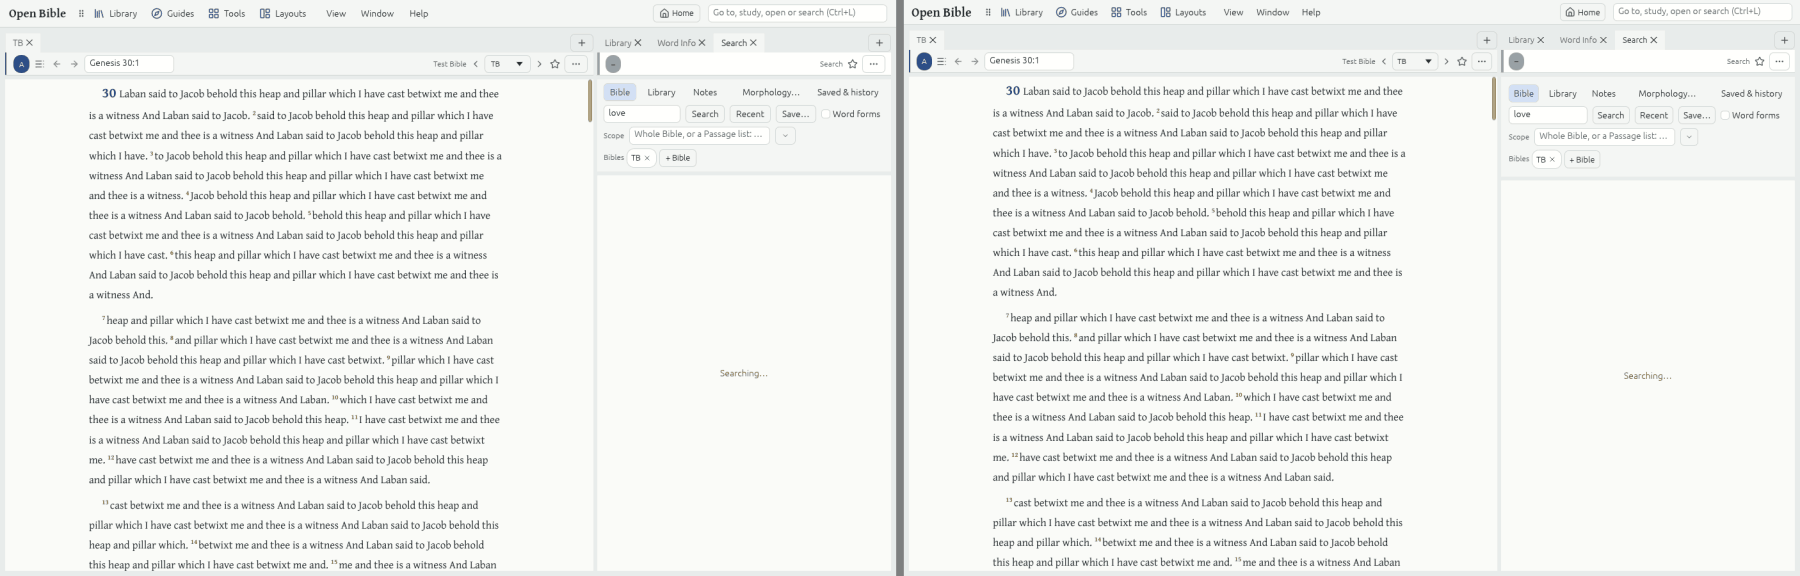
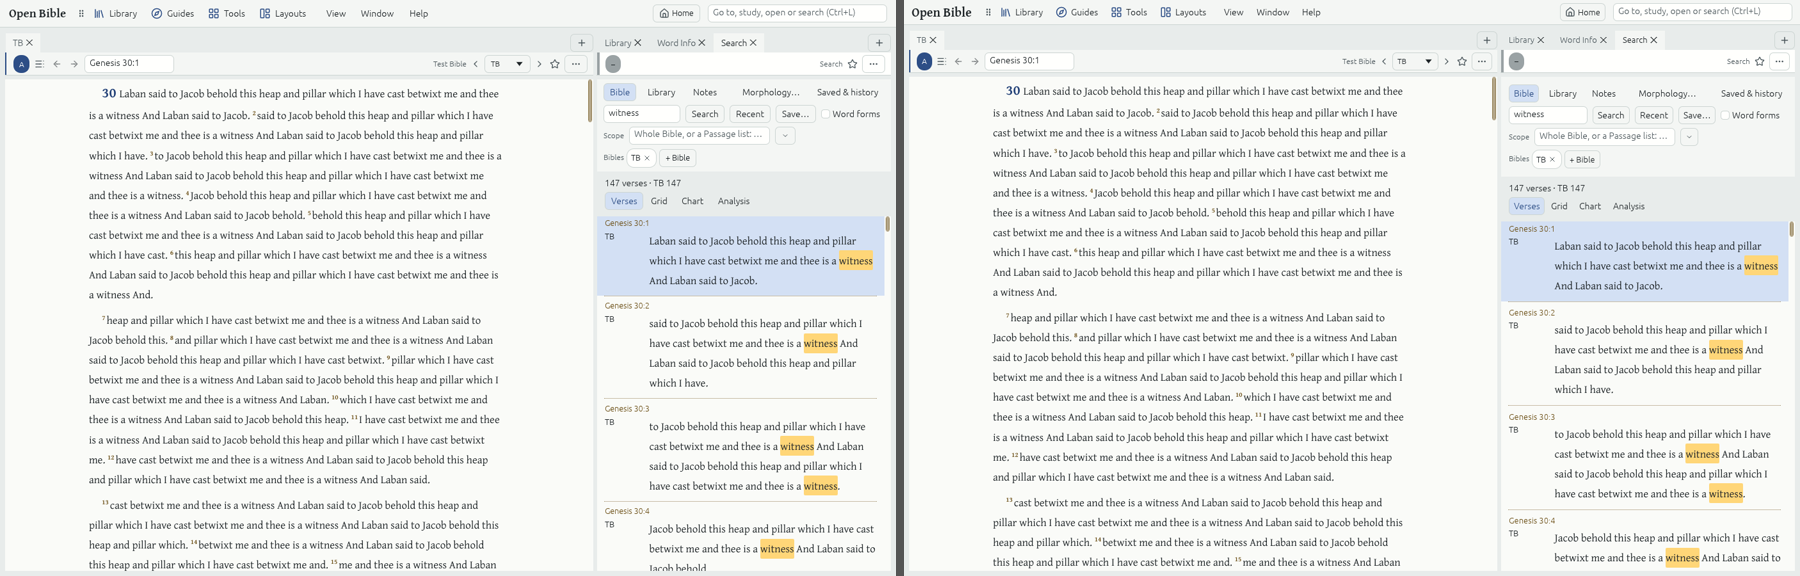
docs(ui): before/after renders of the Move Note box, Page tone hint and Search views (#221)
Rendered with design_token_previews on master d4fea3f and on this
branch; the Search render now shows results instead of 'Searching…'.
The usage guide and ADR 0015 say a 1 inside a size call is a size.

diff --git a/docs/adr/0015-the-interface-look-is-design-tokens-and-shared-components.md b/docs/adr/0015-the-interface-look-is-design-tokens-and-shared-components.md
@@ -4,7 +4,7 @@ About forty tickets added the interface a surface at a time, each with its own s
 
 1. **One token module.** `obs_ui_egui::tokens` holds the spacing scale (`space`: 2, 4, 6, 8, 12, 16, 24 and 32 points), the type scale (`text`: 11, 12, 13, 14, 16, 20 and 24 points), corner radii (`radius`), stroke widths (`stroke`), elevations (`elevation`, the window and popover shadows), frame insets (`inset`), control and column sizes (`size`), washes (`alpha`), the reading page's marks (`mark`), chart and map geometry (`chart`), shares of the room available (`share`), multiples of the Resource text size (`scale`), and the chrome's colour roles (`Chrome`, `LIGHT`, `DARK`, the Atlas's map colours and the Highlight preset swatches). Page colours stay in `Palette`, the other colour token set. `theme` installs the tokens as egui's style.
 2. **Shared components.** `obs_ui_egui::components` holds the pieces every surface is built from: Button, IconButton, TextField, SearchField, Toggle, Menu, Popover, Card, notices, the Tab page, bands, chips (with a Close button), SectionHeader, the text styles (title, subtitle, label, hint, caption), the hover outline, the scroll bar thumb and the text placeholder. A surface uses one of these rather than restyling an egui widget itself.
-3. **A lint test keeps it so.** `design_tokens_tests.rs` reads every non-test source file of the crate (comments, strings and `#[cfg(test)]` items blanked) and fails on a numeric literal in a call that takes a spacing, size, radius, stroke, font size or colour, on any other float literal except 0 and a unitless ½, 1 or 2 (a factor, a bound or a tolerance: `/ 2.0`, `.clamp(0.0, 1.0)`, `.abs() < 0.5`; added to or taken from a coordinate, as in `x + 2.0`, they are spacings and fail too), and on a named `Color32` other than `TRANSPARENT` and `PLACEHOLDER`. The token files themselves and the benchmark harness are exempt. What is not part of the look (a duration, a zoom speed, a map's default bounds, a height estimate, an OS window's placement, a hit test's tolerance) is listed in the test's allowlist with its reason, and an entry that stops matching fails the test.
+3. **A lint test keeps it so.** `design_tokens_tests.rs` reads every non-test source file of the crate (comments, strings and `#[cfg(test)]` items blanked) and fails on a numeric literal in a call that takes a spacing, size, radius, stroke, font size or colour (a 1 included, unless it counts or leads a fraction), on any other float literal except 0 and a unitless ½, 1 or 2 (a factor, a bound or a tolerance: `/ 2.0`, `.clamp(0.0, 1.0)`, `.abs() < 0.5`; added to or taken from a coordinate, as in `x + 2.0`, they are spacings and fail too), and on a named `Color32` other than `TRANSPARENT` and `PLACEHOLDER`. The token files themselves and the benchmark harness are exempt. What is not part of the look (a duration, a zoom speed, a map's default bounds, a height estimate, an OS window's placement, a hit test's tolerance) is listed in the test's allowlist with its reason, and an entry that stops matching fails the test.
 
 ## Considered Options
 

diff --git a/docs/dev/design-tokens.md b/docs/dev/design-tokens.md
@@ -53,7 +53,9 @@ reason to the test's `ALLOWED` list.
 A bare ½, 1 or 2 passes only as a factor, a bound or a tolerance (`/ 2.0`, `* 0.5`,
 `.clamp(0.0, 1.0)`, `.abs() < 0.5`). Added to or taken from a coordinate it is a spacing:
 `icon.right() + space::XXS`, `last[2] + space::PX`, and `rect.bottom() - stroke::HAIR / 2.0`
-to centre a hairline on a pixel.
+to centre a hairline on a pixel. Inside a spacing or size call even a 1 is a size
+(`rect.expand(space::PX)`, not `expand(1.0)`), unless it counts (`level.saturating_sub(1)`)
+or leads a fraction (`lerp_to_gamma(c, 1.0 - t)`).
 
 ## Previews
 
